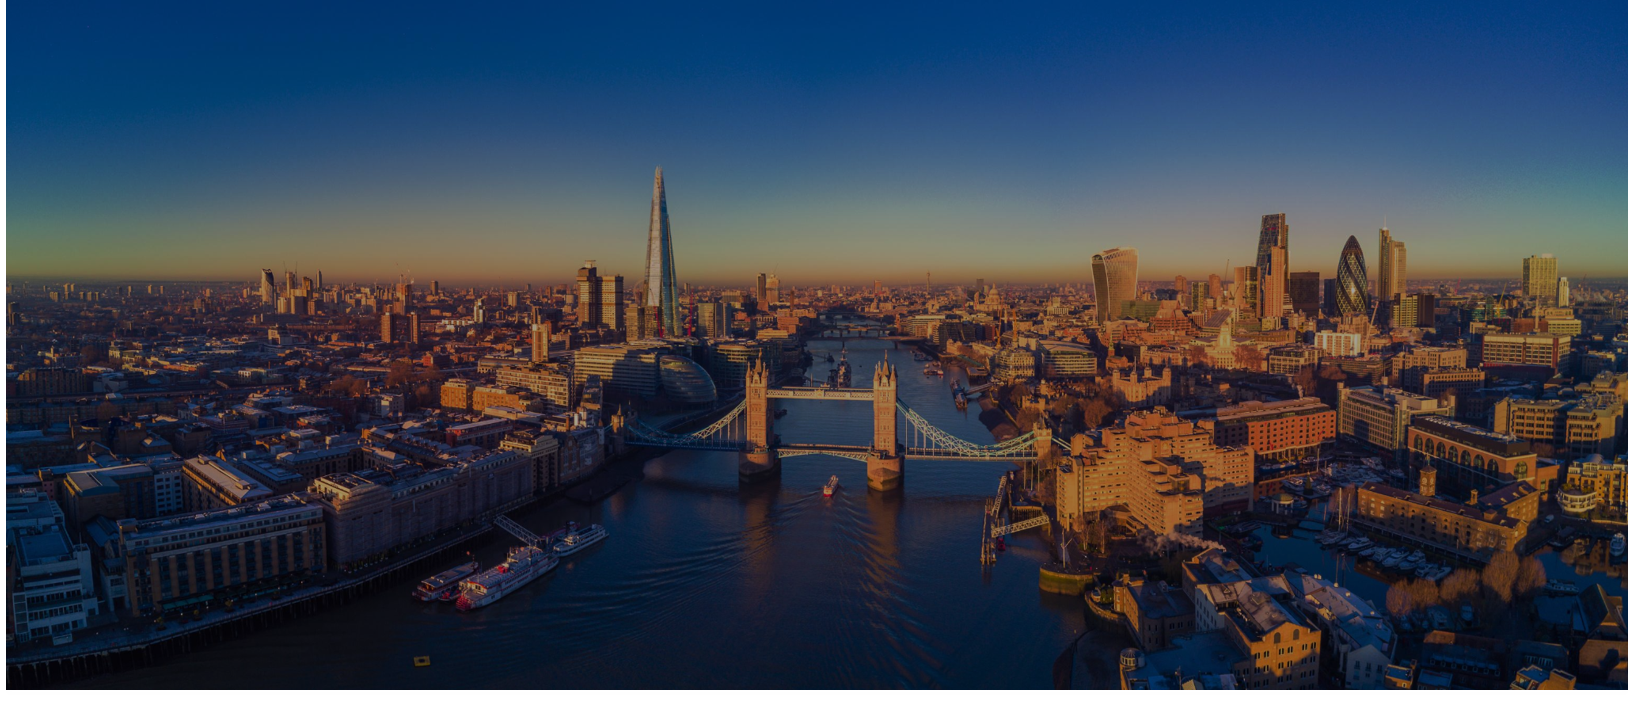
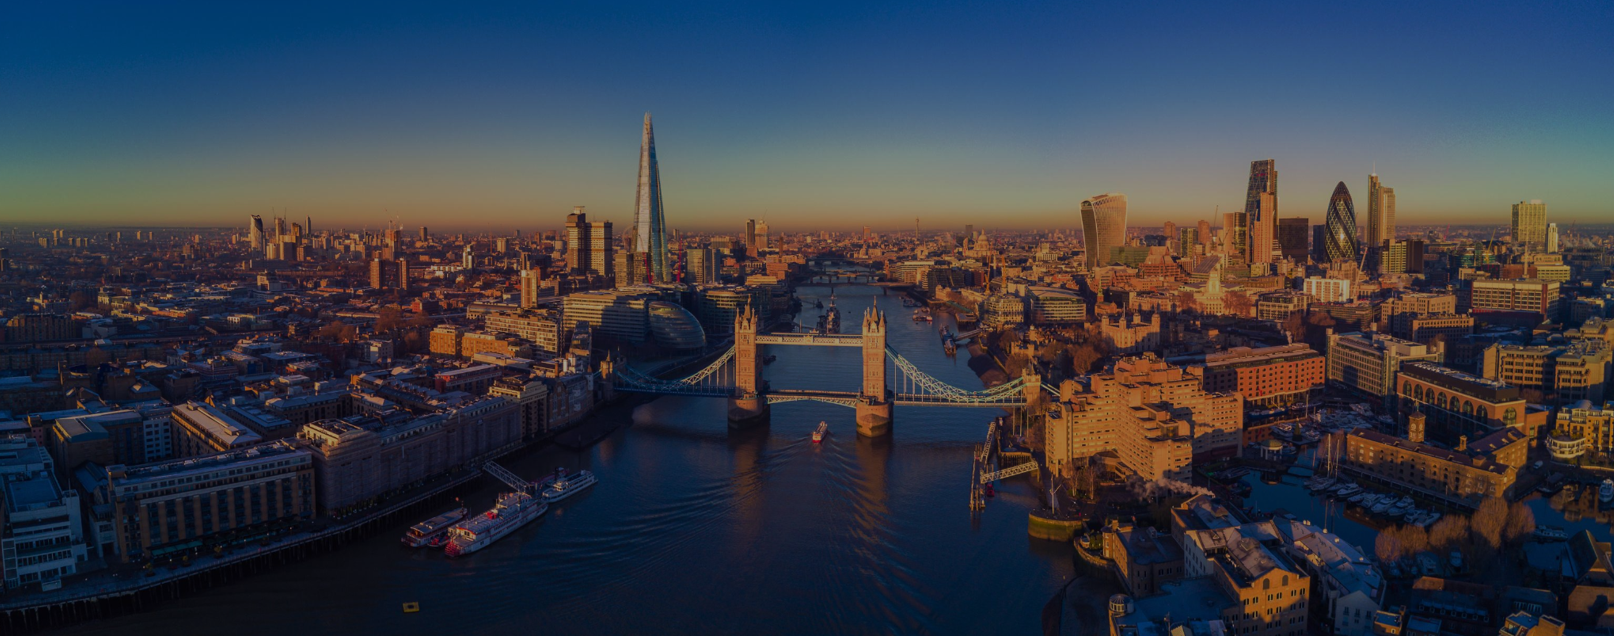
The home section design was completed.

diff --git a/style.css b/style.css
@@ -1,0 +1,157 @@
+* {
+	padding: 0;
+	margin: 0;
+	font-family: Verdana, Geneva, Tahoma, sans-serif;
+	box-sizing: border-box;
+	scroll-behavior: smooth;
+}
+
+:root {
+	font-size: 16px;
+	--primary-color: #000000;
+	--bg-transparent-color: #000000c6;
+	--gray-transparent-color: #8080807e;
+	--white-color: #ffffff;
+}
+
+body {
+	overflow-x: hidden;
+	color: var(--white-color);
+}
+
+main {
+	margin-top: 5rem;
+}
+
+h2 {
+	font-size: 2rem;
+	margin-bottom: 1rem;
+}
+
+a {
+	text-decoration: none;
+	cursor: pointer;
+	color: var(--white-color);
+}
+
+img {
+	max-width: 100%;
+	height: auto;
+}
+
+.section-container {
+	padding-top: 4rem;
+	padding-bottom: 2rem;
+	width: 100%;
+	min-height: 100vh;
+	background-color: var(--bg-transparent-color);
+}
+
+.padding-x {
+	padding-left: 5vw;
+	padding-right: 5vw;
+}
+
+.flex-center {
+	display: flex;
+	justify-content: center;
+	align-items: center;
+}
+
+.flex-between {
+	display: flex;
+	justify-content: space-between;
+	align-items: center;
+}
+
+/* Header ***************************************************************** */
+header {
+	gap: 2rem;
+	position: fixed;
+	top: 0;
+	width: 100%;
+	background-color: var(--primary-color);
+	height: 5rem;
+	z-index: 10;
+}
+
+header .logo {
+	width: 10rem;
+}
+
+header .descktop-navbar {
+	gap: 3rem;
+}
+
+/* Home ***************************************************************** */
+#home {
+	background-image: url(./assets/imgs/London\ Skyline.png);
+	background-repeat: no-repeat;
+	background-position: center;
+	background-size: cover;
+	position: relative;
+}
+
+.home-container {
+	padding-top: 4rem;
+	padding-bottom: 2rem;
+	width: 100%;
+	min-height: calc(100vh - 5rem);
+	flex-direction: column;
+	justify-content: space-between;
+}
+
+.home-title {
+	width: 100%;
+	text-align: center;
+	font-size: 3rem;
+}
+
+.home-text {
+	position: absolute;
+	width: 100%;
+	left: 0;
+	bottom: 0;
+	text-align: center;
+	font-size: 1.5rem;
+	padding-bottom: 2rem;
+}
+
+.home-text p {
+	padding: 2rem 3rem;
+	background-color: var(--gray-transparent-color);
+}
+
+/* About Us ***************************************************************** */
+#about {
+	background-image: url(./assets/imgs/Foto\ Oficina\ 2.png);
+	background-repeat: no-repeat;
+	background-position: center;
+	background-size: cover;
+}
+
+/* Services ***************************************************************** */
+#services {
+	background-image: url(./assets/imgs/Foto\ Oficina.png);
+	background-repeat: no-repeat;
+	background-position: center;
+	background-size: cover;
+}
+
+/* Contact ***************************************************************** */
+#contact {
+	background-image: url(./assets/imgs/Foto\ Oficina\ 2.png);
+	background-repeat: no-repeat;
+	background-position: center;
+	background-size: cover;
+}
+
+/* Footer ***************************************************************** */
+footer {
+	font-size: 0.8rem;
+	padding-top: 1rem;
+	padding-bottom: 1rem;
+	gap: 1rem;
+	flex-wrap: wrap;
+	background-color: var(--primary-color);
+}

diff --git a/index.html b/index.html
@@ -13,9 +13,46 @@
 		/>
 	</head>
 	<body>
-		<header></header>
-		<main></main>
-		<footer>
+		<header class="padding-x flex-between">
+			<a
+				href="#home"
+				class="logo"
+			>
+				<img
+					src="./assets/imgs/NOX Capital Partners Logo White.png"
+					alt=""
+				/>
+			</a>
+			<nav class="descktop-navbar flex-between">
+				<a href="#home">HOME</a>
+				<a href="#about">ABOUT US</a>
+				<a href="#services">SERVICES</a>
+				<a href="#contact">CONTACT</a>
+			</nav>
+		</header>
+		<main>
+			<section id="home">
+				<div class="home-container padding-x flex">
+					<h1 class="home-title">NOX Capital Partners</h1>
+					<div class="home-text padding-x">
+						<p>
+							Premier boutique investment bank offering tailor made financial
+							advisory services across U.S. and Latam
+						</p>
+					</div>
+				</div>
+			</section>
+			<section id="about">
+				<div class="section-container padding-x"></div>
+			</section>
+			<section id="services">
+				<div class="section-container padding-x"></div>
+			</section>
+			<section id="contact">
+				<div class="section-container padding-x"></div>
+			</section>
+		</main>
+		<footer class="padding-x flex-between">
 			<p>Privacy | Terms and condition</p>
 			<p>Ⓒ 2024 All rights reserved. NOX Capital Partners</p>
 		</footer>
